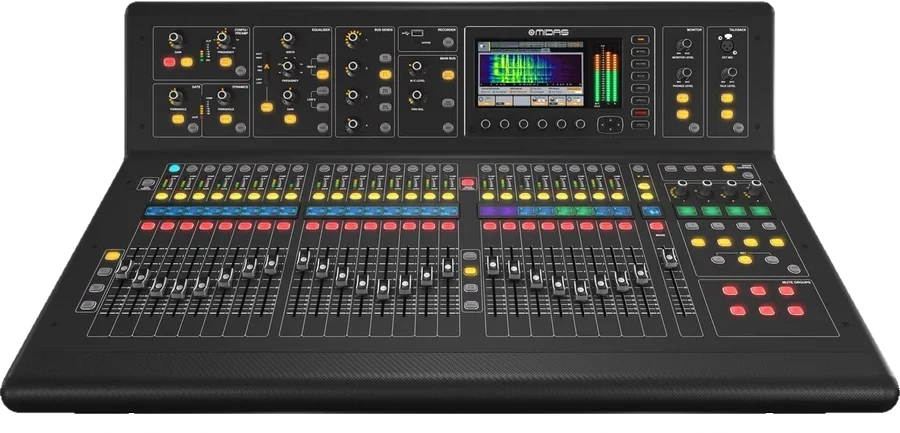
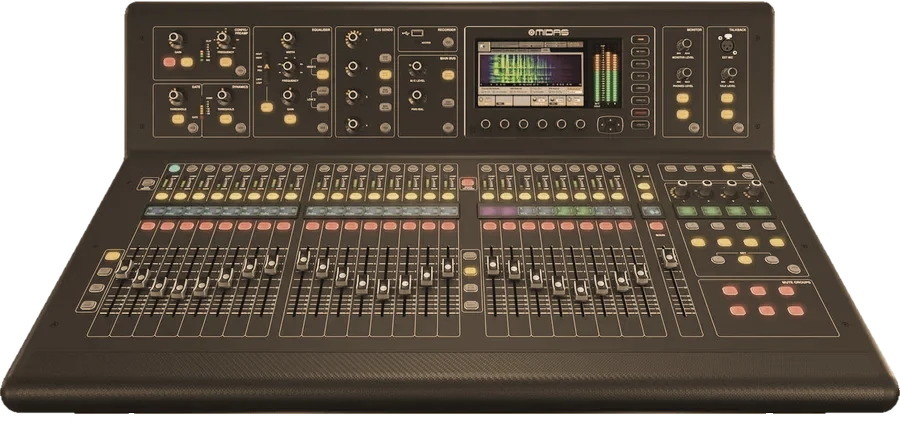
Portada: tono dorado de las consolas aplicado en la imagen (sin filtro SVG) para que se vean en Safari/iPhone
Claude-Session: https://claude.ai/code/session_01YYRvwkGKLkuxVC7WfMj7We

diff --git a/index.html b/index.html
@@ -198,7 +198,7 @@ header{background:rgba(10,10,10,.5);backdrop-filter:blur(20px) saturate(150%);-w
 .cimg .scene{position:absolute;inset:0}
 .cimg .scene img{position:absolute;left:50%;top:50%;width:auto;height:auto;max-width:80%;max-height:150px;object-fit:contain;
   transform:translate(-50%,-50%) translate(var(--x,0),var(--y,0)) scale(var(--k,1));
-  filter:url(#wm-gold) drop-shadow(0 18px 14px rgba(0,0,0,.75));opacity:.78;transition:opacity .4s}
+  filter:drop-shadow(0 18px 14px rgba(0,0,0,.75));opacity:.78;transition:opacity .4s}
 .course.has-img:hover .cimg .scene img{opacity:.95}
 #c6 .cimg .scene img{opacity:.58}#c6.has-img:hover .cimg .scene img{opacity:.8}
 /* dos consolas: X32 delante a la izquierda, M32 detrás a la derecha */
@@ -221,7 +221,6 @@ header{background:rgba(10,10,10,.5);backdrop-filter:blur(20px) saturate(150%);-w
 <script>document.documentElement.classList.add('js')</script>
 </head>
 <body>
-<svg width="0" height="0" style="position:absolute" aria-hidden="true" focusable="false"><filter id="wm-gold" color-interpolation-filters="sRGB"><feColorMatrix type="matrix" values=".33 .33 .33 0 0 .33 .33 .33 0 0 .33 .33 .33 0 0 0 0 0 1 0"/><feComponentTransfer><feFuncR type="table" tableValues=".039 .769 .957"/><feFuncG type="table" tableValues=".039 .604 .886"/><feFuncB type="table" tableValues=".039 .424 .784"/></feComponentTransfer><feComposite in2="SourceGraphic" operator="arithmetic" k1="0" k2=".62" k3=".38" k4="0"/></filter></svg>
 <div class="liquid" aria-hidden="true"><canvas></canvas></div>
 <header><div class="wrap">
   <a href="#inicio" aria-label="WM Studios, inicio"><img src="img/wm-logo-blanco.png" alt="WM Studios"></a>
@@ -276,13 +275,13 @@ header{background:rgba(10,10,10,.5);backdrop-filter:blur(20px) saturate(150%);-w
     <article class="rv course" id="c4"><div class="top"><span class="num">CH 04</span><span class="tag">3 meses · 12 clases</span></div><h3>Audio en Vivo · Básico</h3>
       <p>Las bases del sonido en tarima: micrófonos, cables, consola analógica, monitores, feedback y la prueba de sonido de una banda.</p><p class="grad">Egresas como <b>Asistente de Sonido en Vivo</b></p>
       <div class="links"><a href="pensum/#envivo">Ver pensum</a><a href="https://wa.me/584149668456?text=Hola%2C%20quiero%20informaci%C3%B3n%20del%20curso%20de%20Audio%20en%20Vivo%20B%C3%A1sico" target="_blank" rel="noopener">Preguntar por este curso →</a></div></article>
-    <article class="rv course has-img" id="c5"><figure class="cimg trio"><span class="stripe" aria-hidden="true"></span><span class="floor" aria-hidden="true"></span><div class="scene"><img src="img/consola-x32.webp" alt="Consola Behringer X32" loading="lazy" decoding="async"><img src="img/consola-wing.webp" alt="Consola Behringer WING" loading="lazy" decoding="async"><img src="img/consola-m32.webp" alt="Consola Midas M32" loading="lazy" decoding="async"></div></figure><div class="top"><span class="num">CH 05</span><span class="tag">6 meses</span></div><h3>Consola Digital en Vivo</h3>
+    <article class="rv course has-img" id="c5"><figure class="cimg trio"><span class="stripe" aria-hidden="true"></span><span class="floor" aria-hidden="true"></span><div class="scene"><img src="img/consola-x32.webp?v=2" alt="Consola Behringer X32" decoding="async"><img src="img/consola-wing.webp?v=2" alt="Consola Behringer WING" decoding="async"><img src="img/consola-m32.webp?v=2" alt="Consola Midas M32" decoding="async"></div></figure><div class="top"><span class="num">CH 05</span><span class="tag">6 meses</span></div><h3>Consola Digital en Vivo</h3>
       <p>Opera consolas digitales Behringer y Midas en 4 fases: fundamentos, mezcla, sistemas y producción de un show.</p><p class="grad">Egresas como <b>Técnico en Consola Digital en Vivo</b></p>
       <div class="links"><a href="pensum/#consola">Ver pensum</a><a href="https://wa.me/584149668456?text=Hola%2C%20quiero%20informaci%C3%B3n%20del%20curso%20de%20Consola%20Digital%20en%20Vivo" target="_blank" rel="noopener">Preguntar por este curso →</a></div></article>
-    <article class="rv course has-img" id="c6"><figure class="cimg"><span class="stripe" aria-hidden="true"></span><span class="floor" aria-hidden="true"></span><div class="scene"><img src="img/consola-wing.webp" alt="Consola Behringer WING" loading="lazy" decoding="async"></div></figure><div class="top"><span class="num">CH 06</span><span class="tag">3 meses · 12 clases</span></div><h3>Consola Behringer WING</h3>
+    <article class="rv course has-img" id="c6"><figure class="cimg"><span class="stripe" aria-hidden="true"></span><span class="floor" aria-hidden="true"></span><div class="scene"><img src="img/consola-wing.webp?v=2" alt="Consola Behringer WING" decoding="async"></div></figure><div class="top"><span class="num">CH 06</span><span class="tag">3 meses · 12 clases</span></div><h3>Consola Behringer WING</h3>
       <p>Dominio completo de la WING: ruteo, monitores, efectos, escenas, grabación y virtual soundcheck.</p><p class="grad">Egresas como <b>Operador de Consola Behringer WING</b></p>
       <div class="links"><a href="pensum/#wing">Ver pensum</a><a href="https://wa.me/584149668456?text=Hola%2C%20quiero%20informaci%C3%B3n%20del%20curso%20de%20Consola%20WING" target="_blank" rel="noopener">Preguntar por este curso →</a></div></article>
-    <article class="rv course has-img" id="c7"><figure class="cimg duo"><span class="stripe" aria-hidden="true"></span><span class="floor" aria-hidden="true"></span><div class="scene"><img src="img/consola-x32.webp" alt="Consola Behringer X32" loading="lazy" decoding="async"><img src="img/consola-m32.webp" alt="Consola Midas M32" loading="lazy" decoding="async"></div></figure><div class="top"><span class="num">CH 07</span><span class="tag">3 meses · 12 clases</span></div><h3>Consola X32 / Midas M32</h3>
+    <article class="rv course has-img" id="c7"><figure class="cimg duo"><span class="stripe" aria-hidden="true"></span><span class="floor" aria-hidden="true"></span><div class="scene"><img src="img/consola-x32.webp?v=2" alt="Consola Behringer X32" decoding="async"><img src="img/consola-m32.webp?v=2" alt="Consola Midas M32" decoding="async"></div></figure><div class="top"><span class="num">CH 07</span><span class="tag">3 meses · 12 clases</span></div><h3>Consola X32 / Midas M32</h3>
       <p>Una de las consolas más usadas en tarima, de punta a punta: canal, mix buses, efectos, escenas, grabación y prácticas de show.</p><p class="grad">Egresas como <b>Operador de Consola X32 / M32</b></p>
       <div class="links"><a href="pensum/#x32">Ver pensum</a><a href="https://wa.me/584149668456?text=Hola%2C%20quiero%20informaci%C3%B3n%20del%20curso%20de%20Consola%20X32%20%2F%20M32" target="_blank" rel="noopener">Preguntar por este curso →</a></div></article>
   </div>
